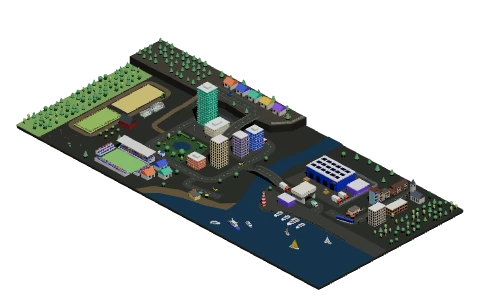
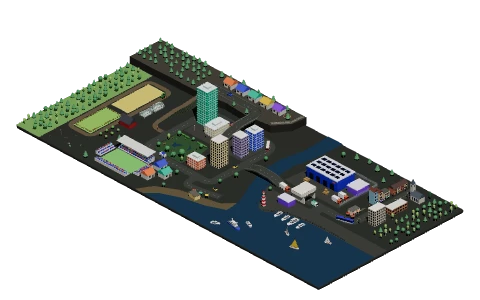
feat: Brightwater's streets meet at junctions, and its traffic drives on across them
- The ring road is cut into three roads (Ring road, Ring road (south-east), Ring road (south-west)) at T-junctions with the harbour road, the beach road and the hill trail, so the roads meet as one surface and the ring's markings stop there
- The harbour road ends at a junction on the quay, where the high street goes on and the turning area is a short road of its own (Harbour quay)
- Cars, vans, the bus and the trucks drive on from road to road; traffic on the ring keeps off the hill trail, and the tram and the cyclist keep to their own street and trail
- Vehicles start where they did on the ring, on the piece of it they were on
- Starter pictures made again; a fixture of Brightwater as it was before, which the old-format fixture is now compared with
- A test of its streets: every junction end read, no warnings, no traffic up the hill trail, the tram and cyclist on their own

diff --git a/src/templates/brightwater.ts b/src/templates/brightwater.ts
@@ -4,6 +4,7 @@ import {
 	type TAreaInput,
 	type TEntityInput,
 	type TFenceInput,
+	type TJunctionInput,
 	type TRoadInput,
 	type TScene,
 	type TSceneInput,
@@ -26,9 +27,11 @@ import { turned } from "./turned";
  * west, farmland (fields, a barn, greenhouses, an orchard and a tractor).
  *
  *   Areas: river and bay (one water area), beach, raised hill, plazas, park with a pond, stadium pitch, fields
- *   Roads: ring road (loop), bridge over the river, a flyover that climbs onto
- *          the hill, an embankment trail, a road through a tunnel that widens
- *          at the quay, and a hidden ferry route across the sea
+ *   Roads: a ring road round downtown, a bridge over the river, a flyover that
+ *          climbs onto the hill, an embankment trail, a road through a tunnel to
+ *          a turning area on the quay, and a hidden ferry route across the sea;
+ *          the streets meet at junctions (ADR-0136), so traffic drives on from
+ *          one to another
  *   Fences: a railing along the marina, a chain-link fence round the logistics
  *          yard, a stone wall at the lookout, a hedge by the park and a
  *          paddock's rail fence
@@ -37,7 +40,12 @@ import { turned } from "./turned";
  */
 
 const RING_ID = "ring_road";
+/** The ring road's other two pieces: it's cut where the harbour road, beach road and hill trail meet it. */
+const RING_SOUTH_EAST_ID = "ring_road_south_east";
+const RING_SOUTH_WEST_ID = "ring_road_south_west";
 const BRIDGE_ID = "harbour_road";
+const QUAY_ID = "harbour_quay";
+const BEACH_ROAD_ID = "beach_road";
 const HILL_ROAD_ID = "hill_road";
 const FERRY_ID = "ferry_route";
 const HIGH_STREET_ID = "high_street";
@@ -252,30 +260,62 @@ const AREAS: TAreaInput[] = [
 
 const ROADS: TRoadInput[] = [
 	{
+		// Round downtown, in three pieces between its junctions: this one from the hill trail
+		// past the hill to the harbour road.
 		id: RING_ID,
 		name: "Ring road",
 		kind: "road_01",
-		loops: true,
 		cornerRadius: 4,
 		points: [
+			[-22, 2],
 			[-22, -12],
 			[0, -12],
-			[0, 10],
-			[-22, 10],
+			[0, -1],
 		],
 	},
 	{
-		// Leaves the ring road, crosses the river on a bridge, runs through the
-		// harbour gate (a tunnel) and widens into a turning area on the quay.
+		id: RING_SOUTH_EAST_ID,
+		name: "Ring road (south-east)",
+		kind: "road_01",
+		cornerRadius: 4,
+		points: [
+			[0, -1],
+			[0, 10],
+			[-4, 10],
+		],
+	},
+	{
+		id: RING_SOUTH_WEST_ID,
+		name: "Ring road (south-west)",
+		kind: "road_01",
+		cornerRadius: 4,
+		points: [
+			[-4, 10],
+			[-22, 10],
+			[-22, 2],
+		],
+	},
+	{
+		// Leaves the ring road, crosses the river on a bridge and runs through the
+		// harbour gate (a tunnel) to the quay, where the high street goes on.
 		id: BRIDGE_ID,
 		name: "Harbour road",
 		kind: "road_01",
 		cornerRadius: 2,
 		points: [
-			[1.2, -1],
+			[0, -1],
 			[5.5, -1, 1.3],
 			[8.6, -1, 1.3],
 			[14.5, -1],
+			[26, -1],
+		],
+	},
+	{
+		// Off the harbour road, widening into a turning area on the quay.
+		id: QUAY_ID,
+		name: "Harbour quay",
+		kind: "road_01",
+		points: [
 			[26, -1],
 			[26, 3.6, 0, 3.8],
 		],
@@ -305,7 +345,7 @@ const ROADS: TRoadInput[] = [
 		heldUpBy: "embankment",
 		showsRailings: false,
 		points: [
-			[-23.2, 2],
+			[-22, 2],
 			[-27.4, 2],
 			[-27.4, -8, 0.8],
 			[-26.4, -13.6, HILL],
@@ -313,13 +353,13 @@ const ROADS: TRoadInput[] = [
 		],
 	},
 	{
-		id: "beach_road",
+		id: BEACH_ROAD_ID,
 		name: "Beach road",
 		kind: "road_01",
 		width: 2,
 		cornerRadius: 3,
 		points: [
-			[-4, 11],
+			[-4, 10],
 			[-4, 14.6],
 			[6, 12.6],
 		],
@@ -356,7 +396,7 @@ const ROADS: TRoadInput[] = [
 		kind: "road_01",
 		cornerRadius: 2.5,
 		points: [
-			[28, -1],
+			[26, -1],
 			[36, -1],
 			[36, -22],
 		],
@@ -377,6 +417,44 @@ const ROADS: TRoadInput[] = [
 			[-41.4, 15.4],
 			[-41.4, -11.4],
 		],
+	},
+];
+
+// ---------------------------------------------------------------- junctions
+
+/** One end of a road at a junction; `leadsTo` keeps traffic arriving by it to those ends. */
+const end = (roadId: string, which: "start" | "end", leadsTo?: [string, "start" | "end"][]) => ({
+	roadId,
+	end: which,
+	leadsTo: leadsTo?.map(([id, to]) => ({ roadId: id, end: to })) ?? null,
+});
+
+/** Where the streets meet (ADR-0136): round the ring road, and at the quay. */
+const JUNCTIONS: TJunctionInput[] = [
+	{
+		id: "ring_harbour",
+		ends: [end(RING_ID, "end"), end(RING_SOUTH_EAST_ID, "start"), end(BRIDGE_ID, "start")],
+	},
+	{
+		id: "ring_beach",
+		ends: [
+			end(RING_SOUTH_EAST_ID, "end"),
+			end(RING_SOUTH_WEST_ID, "start"),
+			end(BEACH_ROAD_ID, "start"),
+		],
+	},
+	{
+		// Traffic on the ring road keeps to it here: the hill trail is a footpath and cycle track.
+		id: "ring_trail",
+		ends: [
+			end(RING_SOUTH_WEST_ID, "end", [[RING_ID, "start"]]),
+			end(RING_ID, "start", [[RING_SOUTH_WEST_ID, "end"]]),
+			end(HILL_TRAIL_ID, "start"),
+		],
+	},
+	{
+		id: "harbour_quay",
+		ends: [end(BRIDGE_ID, "end"), end(QUAY_ID, "start"), end(HIGH_STREET_ID, "start")],
 	},
 ];
 
@@ -733,7 +811,7 @@ const traffic: TEntityInput[] = [
 		kind: "car_01",
 		name: "City car",
 		colors: paint({ body: "#e05a4a" }),
-		follow: { roadId: RING_ID, speed: 3.2, startDistance: 6 },
+		follow: { roadId: RING_ID, speed: 3.2, startDistance: 20 },
 		label: {
 			title: "Ring road",
 			dataKeys: ["ring_speed", "ring_flow"],
@@ -749,26 +827,26 @@ const traffic: TEntityInput[] = [
 		kind: "car_01",
 		name: "Taxi",
 		colors: paint({ body: "#e8b83a" }),
-		follow: { roadId: RING_ID, speed: 3, startDistance: 34 },
+		follow: { roadId: RING_SOUTH_EAST_ID, speed: 3, startDistance: 2 },
 	},
 	{
 		id: "ring_van",
 		kind: "delivery_van_01",
 		name: "Delivery van",
-		follow: { roadId: RING_ID, speed: 2.6, startDistance: 60 },
+		follow: { roadId: RING_SOUTH_WEST_ID, speed: 2.6, startDistance: 12 },
 	},
 	{
 		id: "harbour_truck",
 		kind: "truck_01",
 		name: "Harbour truck",
-		follow: { roadId: BRIDGE_ID, speed: 2.4, startDistance: 13 },
+		follow: { roadId: BRIDGE_ID, speed: 2.4, startDistance: 14.2 },
 	},
 	{
 		id: "harbour_van",
 		kind: "delivery_van_01",
 		name: "Parcel van",
 		colors: paint({ stripe: "#3cbf9a" }),
-		follow: { roadId: BRIDGE_ID, speed: 2.8, startDistance: 23 },
+		follow: { roadId: BRIDGE_ID, speed: 2.8, startDistance: 24.2 },
 	},
 	{
 		id: "hill_car",
@@ -1141,13 +1219,14 @@ const moreTraffic: TEntityInput[] = [
 		id: "ring_bus",
 		kind: "bus_01",
 		name: "Route 4 bus",
-		follow: { roadId: RING_ID, speed: 2.2, startDistance: 20 },
+		follow: { roadId: RING_ID, speed: 2.2, startDistance: 34 },
 	},
 	{
 		id: "old_town_tram",
 		kind: "tram_01",
 		name: "Harbour tram",
-		follow: { roadId: HIGH_STREET_ID, speed: 1.6, startDistance: 6 },
+		// On its rails: up and down the high street, never onto other roads.
+		follow: { roadId: HIGH_STREET_ID, speed: 1.6, startDistance: 8, drivesThroughJunctions: false },
 	},
 	{
 		id: "farm_tractor",
@@ -1160,7 +1239,8 @@ const moreTraffic: TEntityInput[] = [
 		kind: "bicycle_01",
 		name: "Cyclist",
 		colors: paint({ riderTop: "#e2603b" }),
-		follow: { roadId: HILL_TRAIL_ID, speed: 1, startDistance: 2 },
+		// Up and down the trail, not out among the cars.
+		follow: { roadId: HILL_TRAIL_ID, speed: 1, startDistance: 3.2, drivesThroughJunctions: false },
 	},
 ];
 
@@ -1255,6 +1335,7 @@ export const createBrightwaterScene = (): TScene => {
 		},
 		areas: AREAS,
 		roads: ROADS,
+		junctions: JUNCTIONS,
 		fences: FENCES,
 		entities: [
 			...civic,

diff --git a/src/templates/brightwater.test.ts b/src/templates/brightwater.test.ts
@@ -1,0 +1,64 @@
+import { describe, expect, it } from "vitest";
+
+import { validateWorld } from "#/parts/validateWorld";
+import { roadNetworkOf } from "#/scene/junctions";
+import { drivesAcrossNetwork, pathAhead } from "#/scene/network";
+
+import { createBrightwaterScene } from "./brightwater";
+
+describe("the Brightwater template's streets (ADR-0136)", () => {
+	const scene = createBrightwaterScene();
+	const network = roadNetworkOf(scene.roads, scene.junctions);
+
+	it("meets at junctions with every end where it should be, and no warnings", () => {
+		const read = network.junctions.map((junction) => junction.ends.length);
+		expect(read).toEqual(scene.junctions.map((junction) => junction.ends.length));
+		const { problems, warnings } = validateWorld(JSON.parse(JSON.stringify(scene)));
+		expect(problems).toEqual([]);
+		expect(warnings).toEqual([]);
+	});
+
+	/** The roads a vehicle drives over the next `distance`, from where it starts. */
+	const roadsDriven = (id: string, distance: number) => {
+		const vehicle = scene.entities.find((entity) => entity.id === id);
+		const follow = vehicle?.follow;
+		if (!follow) {
+			throw new Error(`no vehicle ${id}`);
+		}
+		const options = {
+			driving: scene.traffic.drivingSide,
+			startDistance: follow.startDistance,
+			reverse: follow.drivesTheOtherWay,
+			seed: id,
+		};
+		return new Set(
+			pathAhead(network, follow.roadId, options, follow.startDistance, distance).roads,
+		);
+	};
+
+	it("lets the city's traffic drive on round the network, but never up the hill trail", () => {
+		const everywhere = new Set<string>();
+		for (const id of ["ring_car_1", "ring_car_2", "ring_van", "ring_bus", "harbour_truck"]) {
+			const roads = roadsDriven(id, 2000);
+			expect(roads.has("hill_trail"), id).toBe(false);
+			for (const road of roads) {
+				everywhere.add(road);
+			}
+		}
+		expect(everywhere.size).toBeGreaterThan(4);
+	});
+
+	it("keeps the tram on the high street and the cyclist on the hill trail", () => {
+		for (const [id, roadId] of [
+			["old_town_tram", "high_street"],
+			["hill_cyclist", "hill_trail"],
+		]) {
+			const vehicle = scene.entities.find((entity) => entity.id === id);
+			const road = scene.roads.find((r) => r.id === roadId);
+			expect(vehicle?.follow?.roadId).toBe(roadId);
+			expect(road && drivesAcrossNetwork(network, road, scene.traffic, vehicle?.follow)).toBe(
+				false,
+			);
+		}
+	});
+});

diff --git a/src/parts/repairWorld.test.ts b/src/parts/repairWorld.test.ts
@@ -16,13 +16,23 @@ const tidiedTemplates = TEMPLATES.filter((template) =>
 	existsSync(fixtureUrl(`${template.id}-1a50d84`)),
 );
 
+/**
+ * Templates whose world has changed since (not only its format): each is compared with a save of
+ * it made just before it changed, which reads back as the template built it then.
+ */
+const SAVED_BEFORE_IT_CHANGED: Record<string, string> = {
+	// Its roads meet at junctions since (ADR-0136).
+	brightwater: "brightwater-23f0fb2",
+};
+
 describe("reading a world saved before the format was tidied (ADR-0104)", () => {
 	it.each(tidiedTemplates.map((template) => [template.id, template] as const))(
-		"%s, as saved then, reads back exactly as the template builds it now",
+		"%s, as saved then, reads back exactly as the template built it before it last changed",
 		(id, template) => {
 			const { scene, report } = repairWorld(fixture(`${id}-1a50d84`));
 			expect(report).toBeNull();
-			expect(scene).toEqual(template.create());
+			const before = SAVED_BEFORE_IT_CHANGED[id];
+			expect(scene).toEqual(before ? repairWorld(fixture(before)).scene : template.create());
 		},
 	);
 

diff --git a/TODO.md b/TODO.md
@@ -38,7 +38,7 @@ Ideas from the owner, not designed yet. Each needs a design pass (and usually an
 - [ ] **Camera tours (data):** the camera controls of ADR-0062 are done, and a tour that steps through the viewpoints on its own in View mode (ADR-0139). Still to do: a tour that flies to whatever crossed a threshold in the data; maybe the tour coming back after a while without input, as the turntable does.
 - [ ] **Take control of a vehicle or person:** riding along (view only) is done (ADR-0040); next, actually drive or walk it yourself (keyboard/gamepad), leaving its road while you steer and rejoining afterwards. Needs people as a part for walking.
 - [ ] **More traffic behaviour:** following and overtaking are done (ADR-0042), and following through junctions (ADR-0136). Still to do: multi-lane roads (two lanes per direction, passing without the oncoming lane), vehicles meeting head-on on roads without lanes (a ferry route driven both ways), giving way inside a junction (vehicles from different roads can pass through each other there), traffic lights or stop signs at junctions (a traffic signal part that a junction's vehicles obey), and maybe a per-road "no overtaking" setting. *Data:* traffic density or speeds from values.
-- [ ] **Connected road networks, next (ADR-0136):** junctions are done: road ends meet at a junction drawn as one surface (roads cut back, markings stopping), vehicles drive on across the network choosing their way at random, and editing connects (dragging an end onto a road or its end, drawing from and onto roads), disconnects and keeps junctions together. Still to do: a junction's own handle in the view (it's moved by any of its ends) and in the outliner; junctions at different heights (a ramp's foot meeting a flyover) and an embankment under a raised junction; roundabouts; flows that drive on as background traffic are done (ADR-0147), but a flow that shows an amount still keeps to its road (an amount carried across junctions would need routing by data); routes that follow data (weights per way out, or a vehicle with a destination); joining the two halves back into one road automatically when a T's side road is deleted (**Join into one road** does it by hand); pasting roads with their junctions; and putting junctions into Brightwater and Lantern Bay, whose roads still overlap.
+- [ ] **Connected road networks, next (ADR-0136):** junctions are done: road ends meet at a junction drawn as one surface (roads cut back, markings stopping), vehicles drive on across the network choosing their way at random, and editing connects (dragging an end onto a road or its end, drawing from and onto roads), disconnects and keeps junctions together. Still to do: a junction's own handle in the view (it's moved by any of its ends) and in the outliner; junctions at different heights (a ramp's foot meeting a flyover) and an embankment under a raised junction; roundabouts; flows that drive on as background traffic are done (ADR-0147), but a flow that shows an amount still keeps to its road (an amount carried across junctions would need routing by data); routes that follow data (weights per way out, or a vehicle with a destination); joining the two halves back into one road automatically when a T's side road is deleted (**Join into one road** does it by hand); pasting roads with their junctions; and putting junctions into Lantern Bay, whose roads still overlap (Brightwater has them: its ring road in three pieces, with T-junctions to the harbour road, the beach road and the hill trail, and one at the quay).
 - [ ] **A third world: lights and time, next:** the Stockholm template is built (ADR-0135, ADR-0143; `docs/handover/stockholm.md`). Still to do from the first idea: houses on timers (a morning and an evening period), an office tower whose lit panes follow an Occupancy value, Light parts round a square on an evening schedule, a building coloured on a scale by a value. For Stockholm: Norrmalm's stone blocks with flat or mansard roofs, Södermalm east of Götgatan, Katarina kyrka, af Chapman as a full-rigged ship, Strandvägen's boats, the palaces' windows merged as the rows are (fewer draws on Ultra), and its shots in the README's gallery. *Engine gaps it showed:* roads don't follow raised land, so Götgatan climbs Södermalm point by point and Centralbron ends inside its cliff rather than in a real tunnel (ADR-0018); an island in water is raised land drawn over the water area rather than a hole in it (fine for drawing, but water reflections and waves can't know the shore).
 - [ ] **A traffic template (owner, 2026-11-06; after ADR-0147):** a starter world that shows every part of the traffic simulation, a viewpoint for each and a tour through them: junctions (a T, a crossroads, corners, a dead end); background traffic (flows that drive on through junctions: cars, vans, trucks, a bus); a data flow (a road whose width and vehicles follow a small from, to, amount table) beside it; vehicle objects that follow a road (a bus to select, follow and ride along, one kept to its own road with Drive through junctions off); following and overtaking (a slow lorry with faster cars behind on a long road); heights (a bridge over a river, a flyover on an embankment with its ramp, a tunnel portal); a ferry on a hidden route; traffic lights and headlights with an evening coming on. It avoids what isn't built yet (giving way inside a junction, junctions at different heights) rather than showing it off. Made the usual way (Add a template, AGENTS.md: the catalogue, its starter pictures, no validate warnings).
 - [ ] **Areas, next (ADR-0096):** corners with their own heights are done (slopes, ramps, the green arrow and G then Y on corners, a lift arrow on the whole area). Peaks inside areas are done too (ADR-0101), moved like corners (handle, gizmo, G, the arrow keys). Still to do: several peaks selected at once (box selection, moving them together); roads following a slope, and objects moving with an area when it's reshaped or raised (they stand on it when moved or dropped, ADR-0098); whether "raised" should be a shape setting for every surface (and "Raised land" a land surface that starts raised, `startHeight` in `scene/areas.ts`), and sloped water (water stays level for now so it can mirror the world; a sloped stream could be drawn without reflections). Towards **block modelling** (the owner's idea, 2026-10-28): a bottom per corner as well as a top, so a shape can float or overhang, and blocks as objects that can be turned and copied like parts. *Data:* a corner's or the whole area's height from a value (a rising water level, a stockpile's size).
